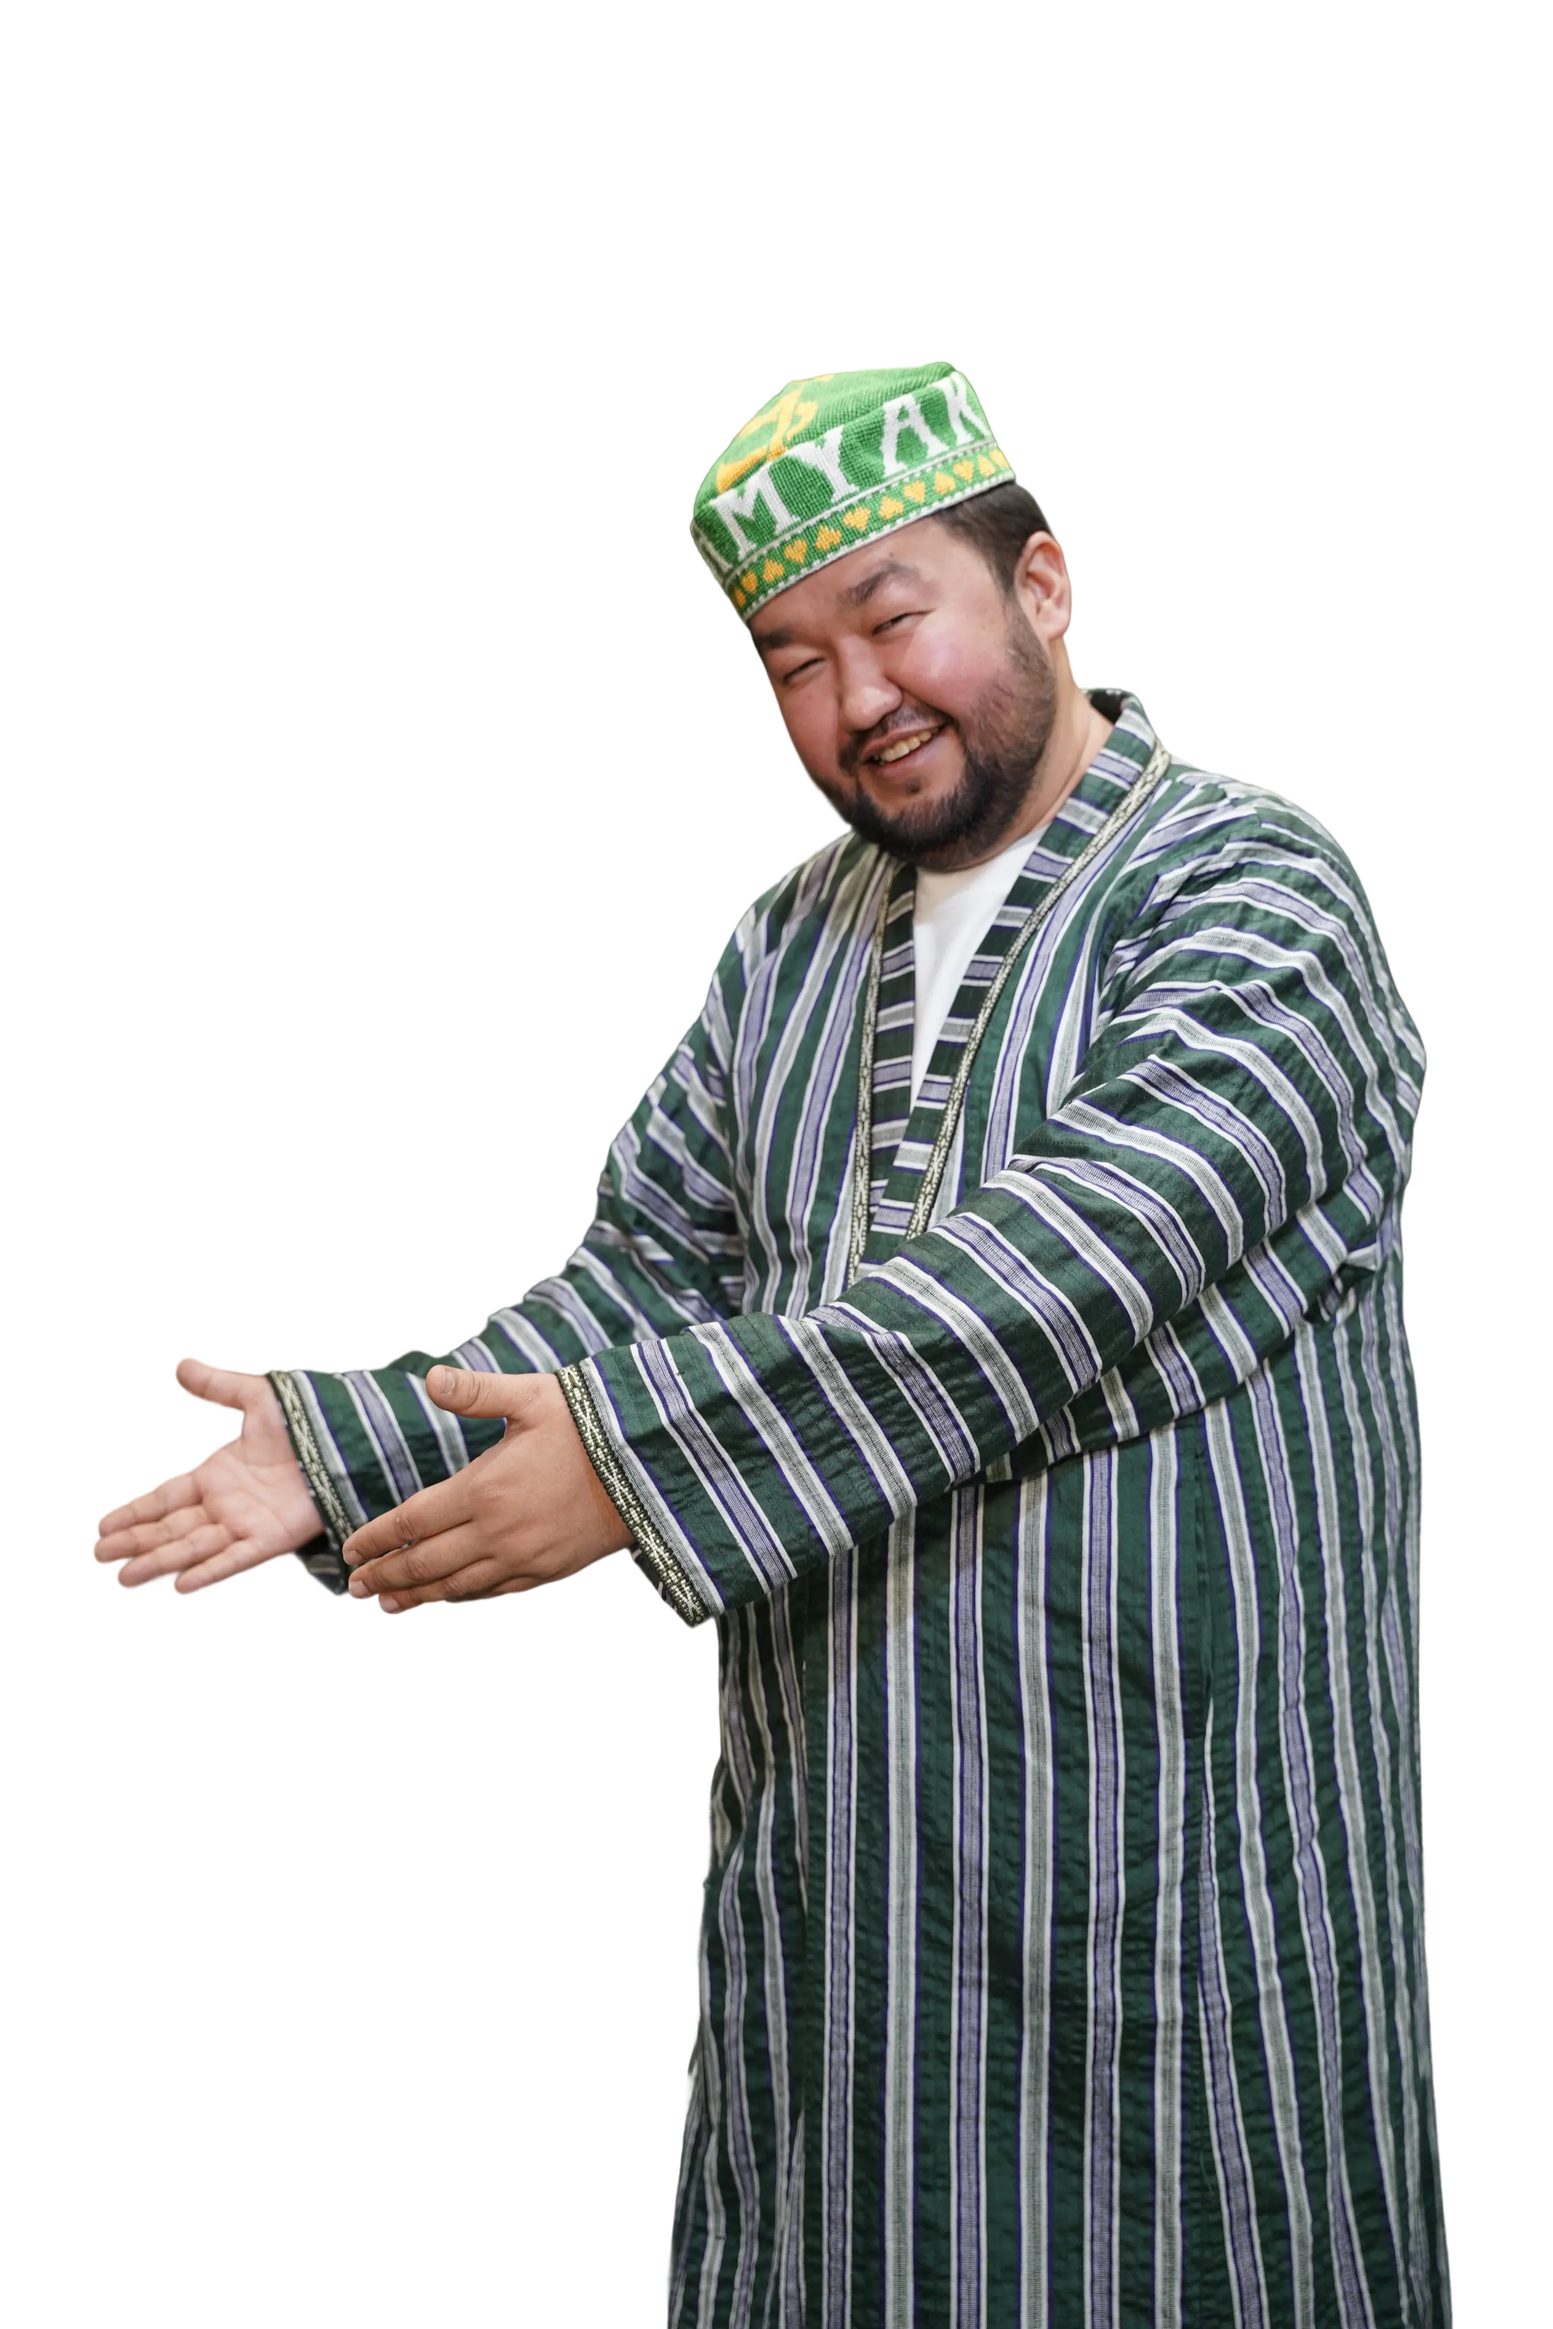
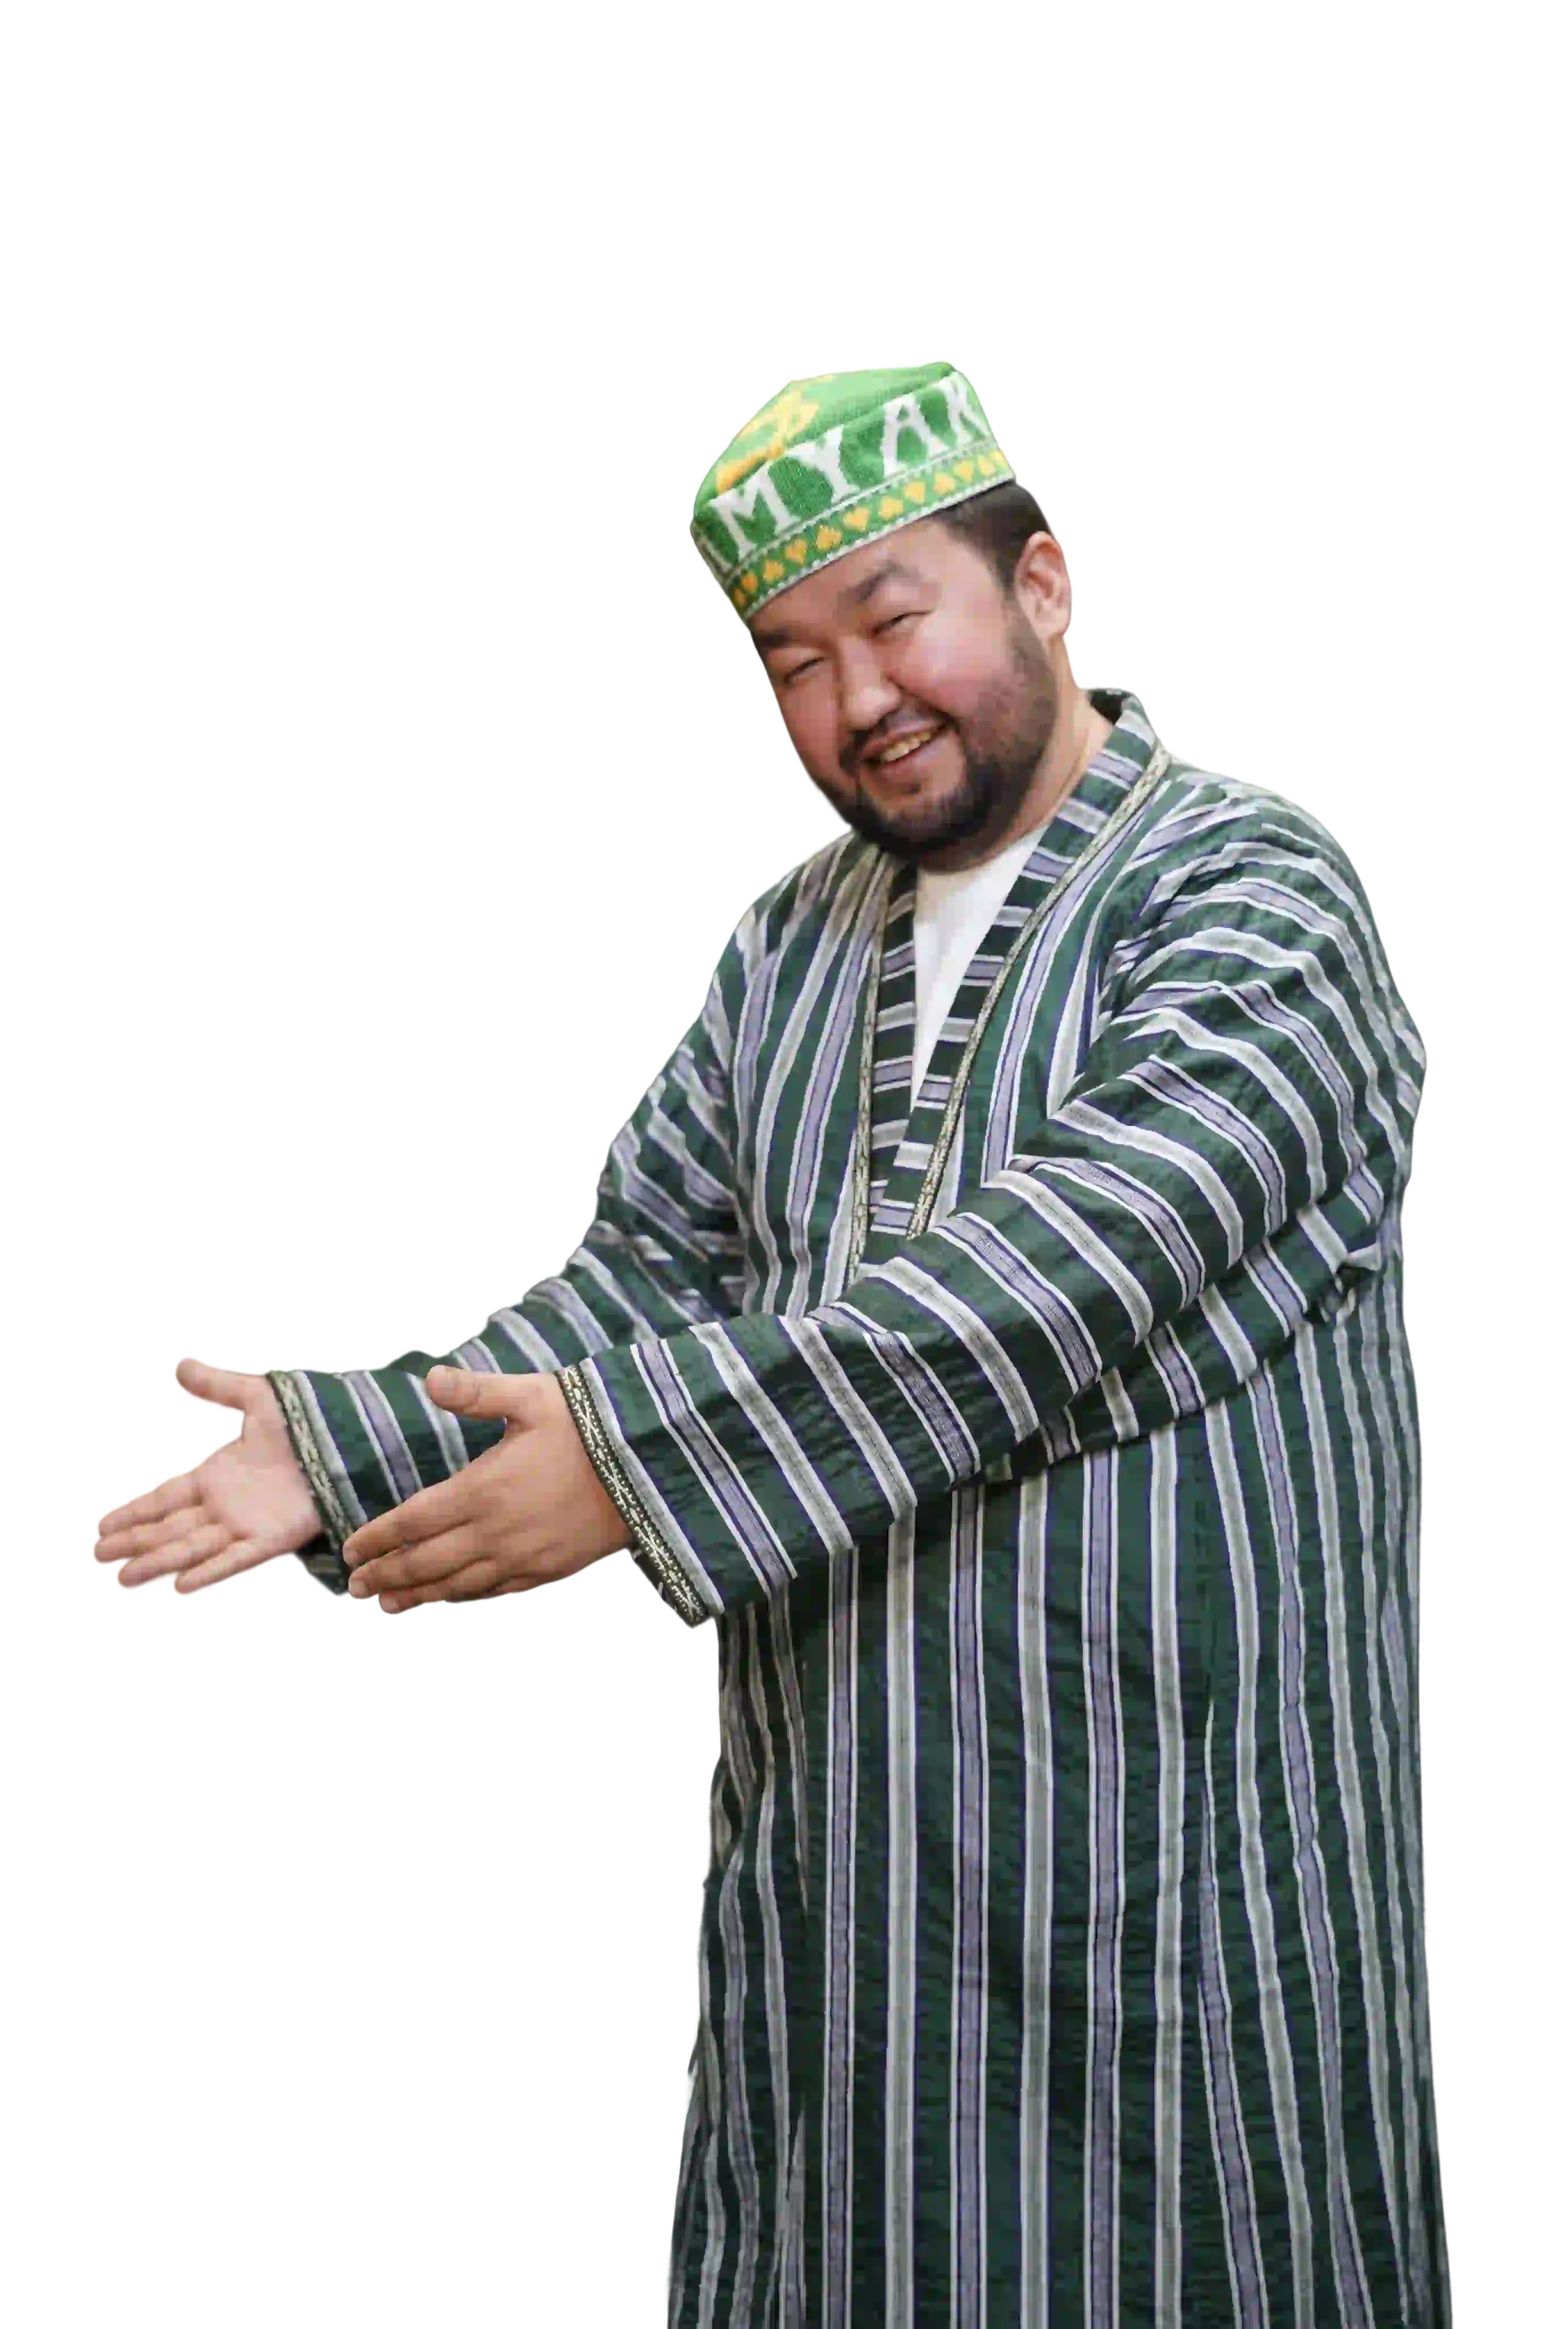
some changes

diff --git a/app/page.tsx b/app/page.tsx
@@ -63,6 +63,7 @@ export default function Home() {
     const [canProductPrev, setCanProductPrev] = useState(false);
     const [canProductNext, setCanProductNext] = useState(false);
     const [selectedGift, setSelectedGift] = useState<typeof giftsets[0] | null>(null);
+    const [loaded, setLoaded] = useState(false);
 
     const filteredProducts = products.filter(
         (p) => p.category === activeCategory
@@ -243,27 +244,7 @@ export default function Home() {
                         <Image src="/bubbles/bubble3.svg" alt="bubble" width={250} height={50} />
                     </motion.div>
 
-                    <motion.div
-                        className="relative -mt-12 lg:-mt-30 shrink-0 z-20 md:ml-6 lg:ml-25 overflow-x-hidden"
-                        initial={{ x: 160, opacity: 0 }}
-                        whileInView={{ x: 0, opacity: 1 }}
-                        viewport={{ once: false, amount: 0.2 }}
-                        transition={{ duration: 0.75, ease: [0.22, 1, 0.36, 1] }}
-                    >
-                        <Image
-                            src="/person.webp"
-                            alt="Person"
-                            width={400}
-                            height={400}
-                            className="object-contain scale-x-[-1] md:w-[280px] lg:w-[400px]"
-                        />
-                        <div
-                            className="absolute inset-0 md:hidden pointer-events-none"
-                            style={{
-                                background: 'linear-gradient(to bottom, transparent 40%, #133C1E 90%)'
-                            }}
-                        />
-                    </motion.div>
+                    <motion.div className="relative -mt-12 lg:-mt-30 shrink-0 z-20 md:ml-6 lg:ml-25 overflow-x-hidden" initial={{ x: 160, opacity: 0 }} whileInView={{ x: 0, opacity: 1 }} viewport={{ once: false, amount: 0.2 }} transition={{ duration: 0.75, ease: [0.22, 1, 0.36, 1] }} > <Image src="/person.webp" alt="Person" width={400} height={400} className="object-contain scale-x-[-1] md:w-[280px] lg:w-[400px]" /> <div className="absolute inset-0 md:hidden pointer-events-none" style={{ background: 'linear-gradient(to bottom, transparent 40%, #133C1E 90%)' }} /> </motion.div>
 
                     <div className="flex-1 z-10 flex flex-col items-start pt-8 md:pt-10 lg:pt-16 pr-6 md:pr-8 lg:pr-16 pl-6 md:pl-0">
                         <Reveal direction="up" delay={0}>

diff --git a/components/animations/PhilosophyIntro.tsx b/components/animations/PhilosophyIntro.tsx
@@ -241,7 +241,7 @@ export function PhilosophyIntro({ words }: { words: string[] }) {
                         className="w-[80px] sm:w-[120px] md:w-[180px]"
                         direction={-1}
                         started={showLays}
-                        image="/bubbles/badge1.png"
+                        image="/bubbles/badgeimg1.png"
                     />
                 </div>
 
@@ -250,7 +250,7 @@ export function PhilosophyIntro({ words }: { words: string[] }) {
                         className="w-[80px] sm:w-[120px] md:w-[180px]"
                         direction={1}
                         started={showLays}
-                        image="/bubbles/badge2.png"
+                        image="/bubbles/badgeimg2.png"
                     />
                 </div>
 
